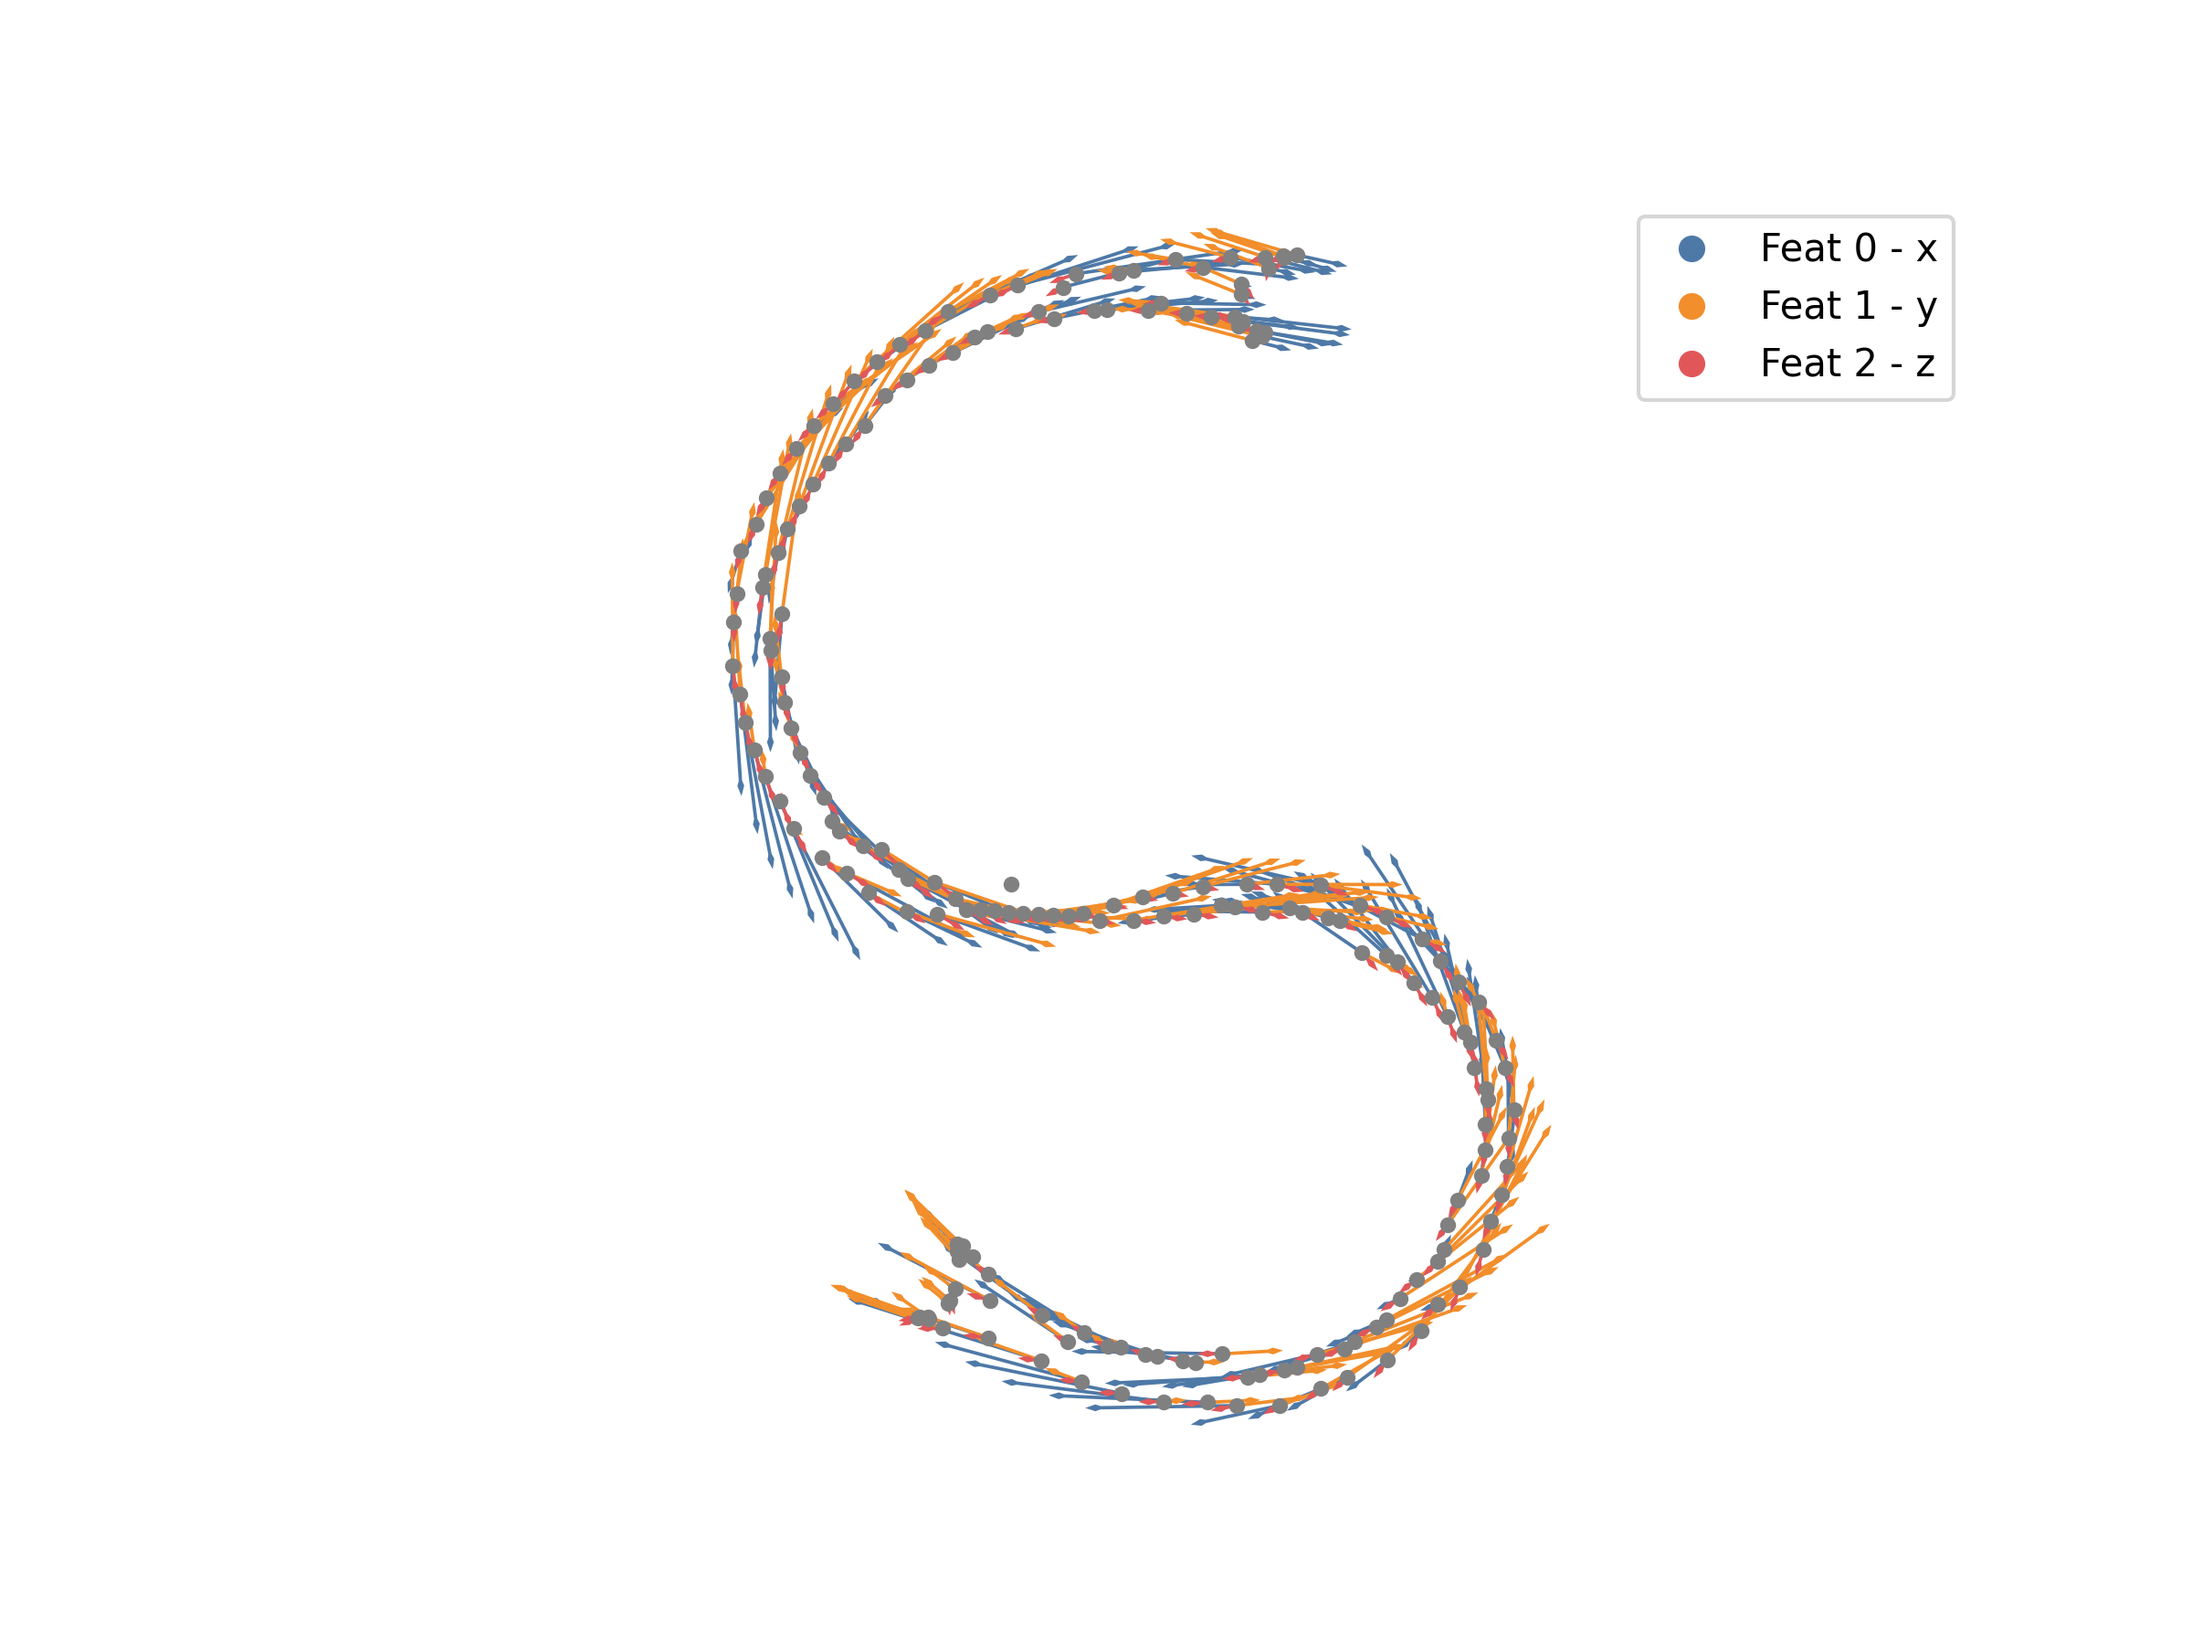
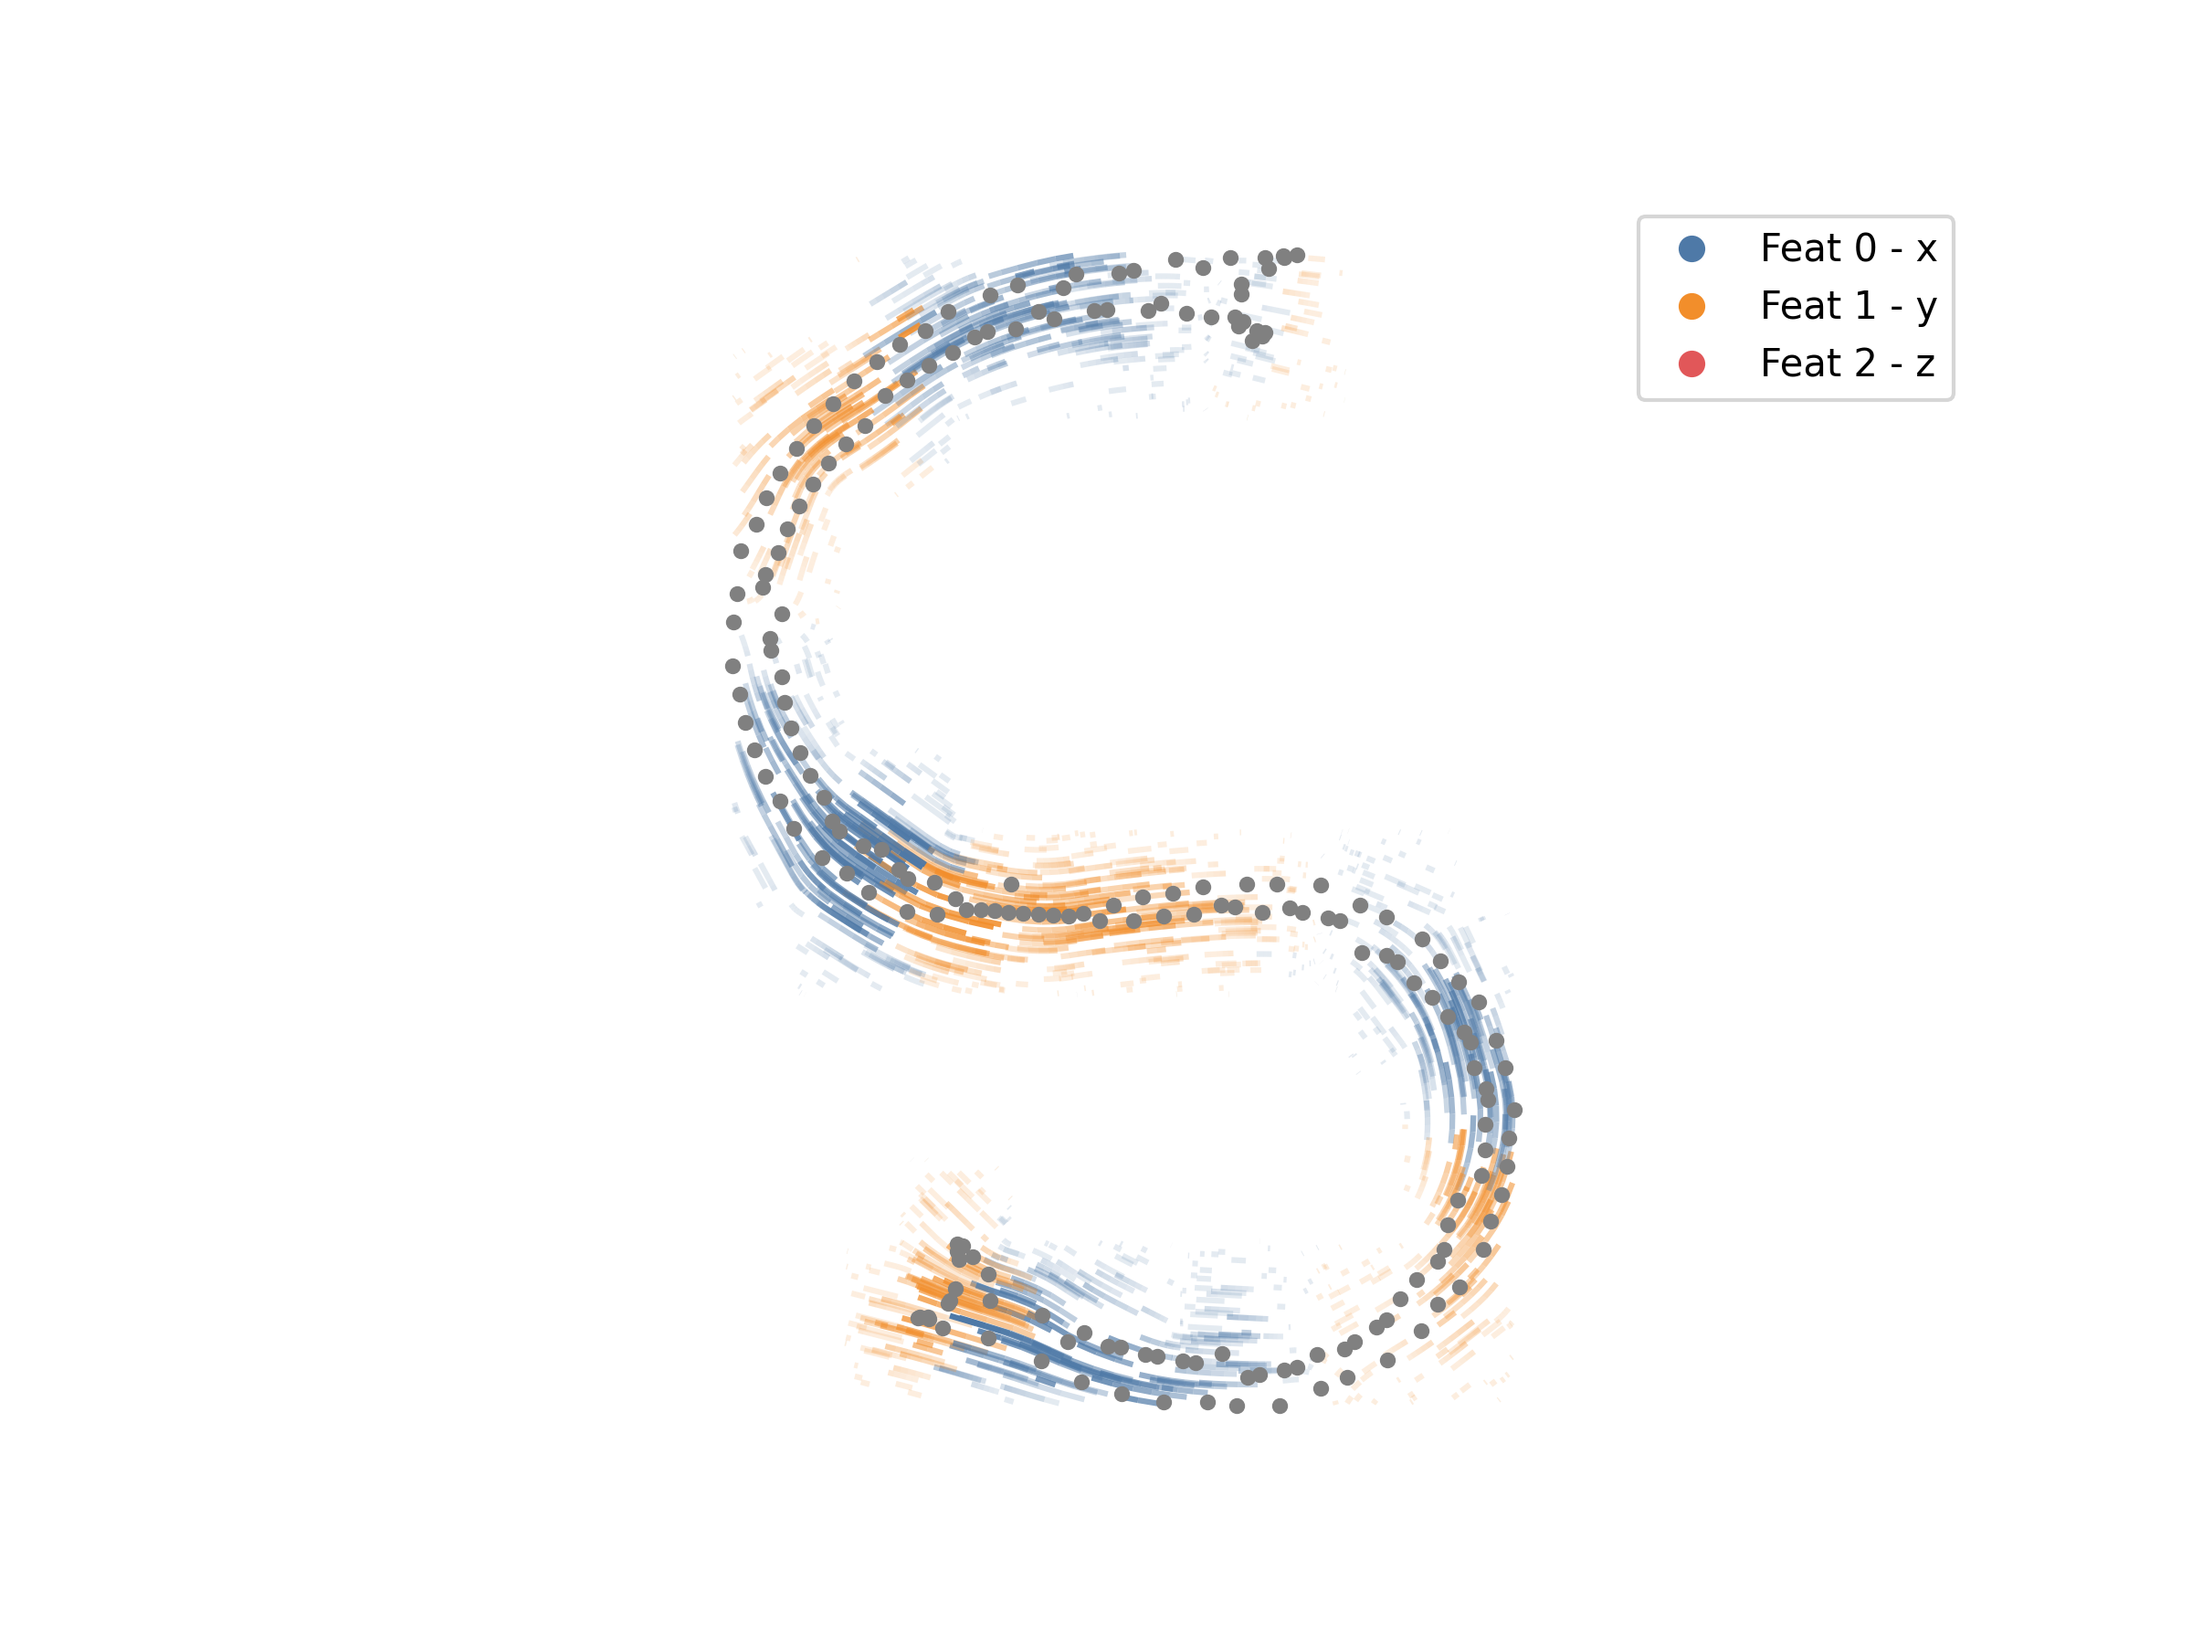
update

Changed region(s): [[0.3125, 0.1244, 0.7188, 0.8711]]

diff --git a/featurewind.py b/featurewind.py
@@ -269,16 +269,16 @@ def prepare_figure(ax, valid_points, Col_labels, k, grad_indices, feature_colors
     # Note: all_grad_vectors has shape (#points, M, 2) and top_k_indices holds the selected feature indices.
     aggregated_vectors = np.sum(all_grad_vectors[:, grad_indices, :], axis=1)  # shape: (#points, 2)
 
-    for i, feat_idx in enumerate(grad_indices):
-        # Extract the color for this feature
-        color_i = feature_colors[i]
-        # Draw the individual arrows using quiver.
-        ax.quiver(
-            all_positions[:, 0], all_positions[:, 1],
-            all_grad_vectors[:, feat_idx, 0], all_grad_vectors[:, feat_idx, 1],
-            color=color_i,  # choose a color that stands out
-            angles='xy', scale_units='xy', scale=3, width=0.002, headwidth=2, headlength=3, alpha=1,
-        )
+    # for i, feat_idx in enumerate(grad_indices):
+    #     # Extract the color for this feature
+    #     color_i = feature_colors[i]
+    #     # Draw the individual arrows using quiver.
+    #     ax.quiver(
+    #         all_positions[:, 0], all_positions[:, 1],
+    #         all_grad_vectors[:, feat_idx, 0], all_grad_vectors[:, feat_idx, 1],
+    #         color=color_i,  # choose a color that stands out
+    #         angles='xy', scale_units='xy', scale=3, width=0.002, headwidth=2, headlength=3, alpha=1,
+    #     )
 
     # Draw the aggregated arrows using quiver.
     # You can adjust the scale parameter to get the desired arrow length.
@@ -391,7 +391,7 @@ def main():
     # Set the number of top features to visualize
     global k 
     k = len(Col_labels)
-    # k = 6
+    # k = 5
 
     # Compute the bounding box
     global bounding_box
@@ -420,7 +420,7 @@ def main():
 
     # Create a grid for interpolation
     grid_res = (min(abs(xmax - xmin), abs(ymax - ymin)) * grid_res_scale).astype(int)
-    grid_res = 30
+    grid_res = 15
     print("Grid resolution:", grid_res)
 
     # Set the KD-tree scale
@@ -454,7 +454,7 @@ def main():
                         for i, feat_idx in enumerate(grad_indices)}
 
     # Create the particle system
-    num_particles = 4500
+    num_particles = 2500
     system = create_particles(num_particles)
     lc = system['linecoll']
 
@@ -536,16 +536,16 @@ def main():
     for spine in ax.spines.values():
         spine.set_visible(False)
 
-    # for frame in range(5):
-    #     # Update the system state for this frame.
-    #     update(frame, system, interp_u_sum, interp_v_sum, interp_argmax, k, velocity_scale)
-    #     # Save the current state of the figure.
-    #     fig.savefig(f"frame_{frame}.png", dpi=300)
+    for frame in range(5):
+        # Update the system state for this frame.
+        update(frame, system, interp_u_sum, interp_v_sum, interp_argmax, k, velocity_scale)
+        # Save the current state of the figure.
+        fig.savefig(f"frame_{frame}.png", dpi=300)
 
-    # # Create the animation
-    # anim = FuncAnimation(fig, 
-    #                      lambda frame: update(frame, system, interp_u_sum, interp_v_sum, interp_argmax, k, velocity_scale), 
-    #                      frames=1000, interval=30, blit=False)
+    # Create the animation
+    anim = FuncAnimation(fig, 
+                         lambda frame: update(frame, system, interp_u_sum, interp_v_sum, interp_argmax, k, velocity_scale), 
+                         frames=1000, interval=30, blit=False)
 
     # Save the figure as a PNG file with 300 dpi.
     fig.savefig("featurewind_figure.png", dpi=300)
